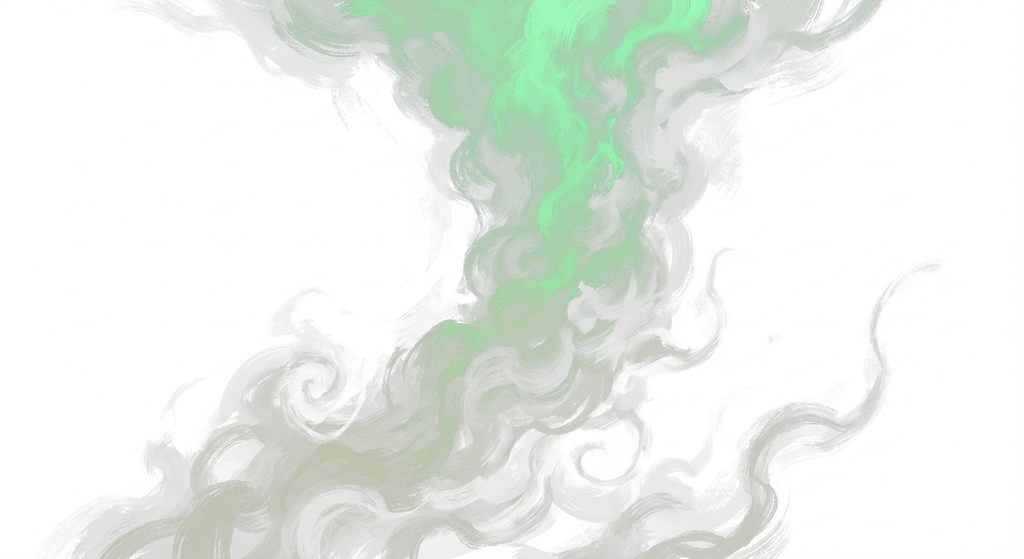
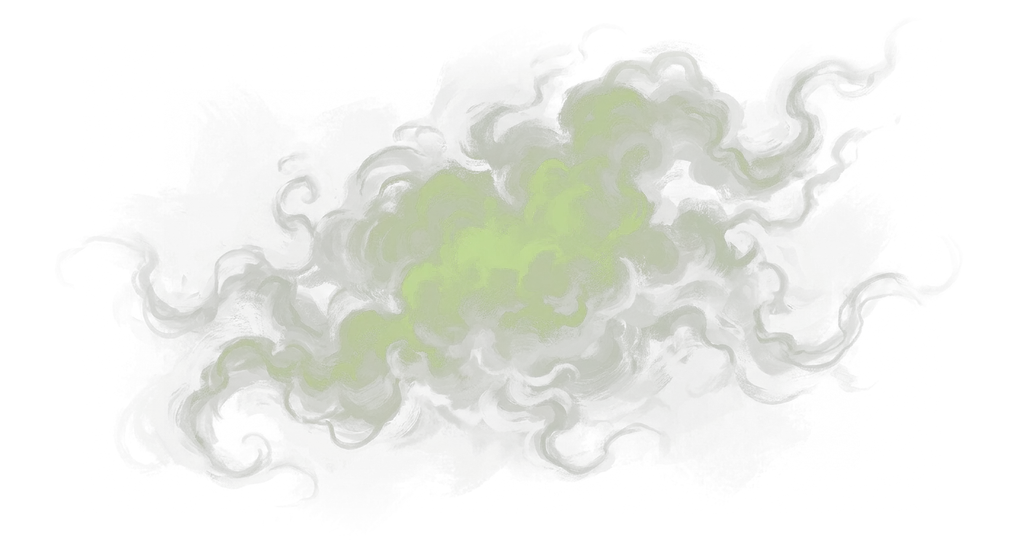
Gas blooms, it does not slide, and it never shows an edge
The owner on what shipped: the gas looked tacky the way it moved, and the plates had a flat line in
them. Both were the same mistake — a whole picture translated down the screen, with the picture
reaching its own frame, so the frame's straight edge travelled with it.

The plates are now one cloud each, sitting well inside the frame with black all round, and the tool
takes the outer sixth of every gas plate to nothing on top of that, so no straight edge exists to be
seen however the plate is moved.

The motion is a bloom: each layer arrives small and dense, opens out as it meets the air, drifts a
little, turns a few degrees and thins away. Four clocks, none of them the same length, and an ease-out
so it settles instead of sliding past.

diff --git a/assets/app.css b/assets/app.css
@@ -889,29 +889,29 @@ small.at-bonus{display:block}
   width:min(560px, 82vw); height:auto; margin:0;
   filter:drop-shadow(0 0 30px rgba(140,203,63,.3)) drop-shadow(0 10px 34px rgba(0,0,0,.9));
   animation:cheat-in .5s cubic-bezier(.2,.8,.2,1) both}
-.cheat-gas{position:absolute; left:50%; width:min(760px, 150vw); height:auto; mix-blend-mode:screen;
+.cheat-gas{position:absolute; left:50%; top:50%; width:min(920px, 170vw); height:auto; mix-blend-mode:screen;
   opacity:0; will-change:transform, opacity; pointer-events:none}
-/* an animation's own transform wins, so a mirrored layer carries the flip in its keyframes,
-   the way the crest's fog does (assets/theme.css wi-haze-m) */
-.cheat-gas.m{animation-name:cheat-pour-m}
-.g1{animation:cheat-pour 3.6s ease-out both}
-.g2{animation:cheat-pour 3.6s ease-out .25s both}
-.g3{animation:cheat-pour 3.6s ease-out .5s both}
-.g4{animation:cheat-pour 3.6s ease-out .75s both}
-@keyframes cheat-pour-m{
-  0%{transform:scaleX(-1) translate(50%, -60vh) scale(.6); opacity:0}
-  25%{opacity:.5}
-  70%{opacity:.34}
-  100%{transform:scaleX(-1) translate(50%, 18vh) scale(1.5); opacity:0}
-}
+/* Gas does not slide. It arrives small and dense, opens out as it meets the air, and thins away — so each
+   layer grows and drifts a little rather than travelling across the screen, each on its own clock, and the
+   two that are mirrored also turn the other way. Deceleration is the whole of it: the ease-out is why it
+   settles instead of sliding past. */
+.g1{animation:cheat-bloom 3.2s cubic-bezier(.16,.7,.3,1) both}
+.g2{animation:cheat-bloom-b 4.1s cubic-bezier(.16,.7,.3,1) .18s both}
+.g3{animation:cheat-bloom 3.6s cubic-bezier(.16,.7,.3,1) .45s both}
+.g4{animation:cheat-bloom-b 4.4s cubic-bezier(.16,.7,.3,1) .1s both}
 @keyframes cheat-in{from{opacity:0; transform:translateY(8px) scale(.97)} to{opacity:1; transform:none}}
 @keyframes cheat-out{to{opacity:0}}
-/* poured from above the words, spreading as it settles over them */
-@keyframes cheat-pour{
-  0%{transform:translate(-50%, -60vh) scale(.6); opacity:0}
-  25%{opacity:.5}
-  70%{opacity:.34}
-  100%{transform:translate(-50%, 18vh) scale(1.5); opacity:0}
+@keyframes cheat-bloom{
+  0%{transform:translate(-50%, -34%) scale(.38) rotate(-4deg); opacity:0}
+  18%{opacity:.62}
+  55%{opacity:.44}
+  100%{transform:translate(-50%, -54%) scale(1.5) rotate(5deg); opacity:0}
+}
+@keyframes cheat-bloom-b{
+  0%{transform:translate(-50%, -66%) scaleX(-1) scale(.44) rotate(3deg); opacity:0}
+  20%{opacity:.5}
+  60%{opacity:.34}
+  100%{transform:translate(-50%, -46%) scaleX(-1) scale(1.62) rotate(-6deg); opacity:0}
 }
 @media (prefers-reduced-motion: reduce){
   .cheat{animation-duration:.4s; animation-delay:1.7s}

diff --git a/assets/suggest.js b/assets/suggest.js
@@ -95,8 +95,8 @@ function cheat(){
   box.setAttribute('role', 'status');
   const still = matchMedia('(prefers-reduced-motion: reduce)').matches;
   box.innerHTML = (still ? '' :
-    [['1', ''], ['2', ''], ['3', ''], ['2', ' m']].map(([n, mirror], i) =>
-      '<img class="cheat-gas g' + (i + 1) + mirror + '" src="assets/brand/cheat-gas-' + n +
+    ['1', '2', '3', '2'].map((n, i) =>
+      '<img class="cheat-gas g' + (i + 1) + '" src="assets/brand/cheat-gas-' + n +
       '.webp" alt="" decoding="async">').join('')) +
     '<img class="cheat-said" src="assets/brand/cheat-words.webp" alt="Cheat Code Activated" decoding="async">';
   document.body.appendChild(box);

diff --git a/tools/art.py b/tools/art.py
@@ -6,7 +6,9 @@ and a plate nobody likes is a prompt to change rather than a file to hunt for.
 
 What comes back is a picture on a black field, and the black has to become nothing so the plate can be laid
 over anything. Two ways, because a gas and a badge are not the same thing:
-  glow  the plate's own brightness is its alpha, so a wisp fades out the way it is painted. Gas.
+  glow  the plate's own brightness is its alpha, so a wisp fades out the way it is painted, and the frame's
+        own edges are faded out with it. A plate that reaches its edge shows that edge as a straight line
+        the moment it moves, which is the one thing gas must never have. Gas.
   cut   only the black around the shape goes; the shape itself stays as solid as it was painted, so the dark
         metal of a letter is metal and not a hole. Lettering.
 Nothing is traced by hand afterwards.
@@ -51,19 +53,19 @@ BADGE = ('Dark fantasy game logo in the style of Path of Exile, drawn as one pie
 # never a finished thing on its own, which is why every one of them is loose and off-centre rather than posed.
 GLOW, CUT = 'glow', 'cut'
 PLATES = {
-    'cheat-gas-1': LOOK + ' A thick column of poisonous green smoke pouring straight down from the top of the '
-                          'frame, heaviest and brightest where it enters at the top, spreading and thinning as '
-                          'it falls, wisps curling outward at the bottom edges. Sickly toxic green, bright '
-                          'where it is dense, fading to nothing at the edges.',
-    'cheat-gas-2': LOOK + ' A wide rolling bank of poisonous green vapour spilling downward and outward, like '
-                          'gas poured over a surface and spreading across it, heavy in the middle, tendrils '
-                          'reaching left and right. Sickly toxic green, soft edges, fading to nothing.',
+    'cheat-gas-1': LOOK + ' One billowing cloud of poisonous green smoke floating in the middle of the frame, '
+                          'dense and bright at its heart, breaking into curling wisps at its outside. It sits '
+                          'well inside the frame with a wide margin of empty black all the way around it, and '
+                          'touches no edge. Sickly toxic green.',
+    'cheat-gas-2': LOOK + ' One low rolling cloud of poisonous green vapour, wider than it is tall, heavy in '
+                          'the middle and breaking into tendrils at either side. It sits well inside the frame '
+                          'with empty black all the way around it and touches no edge. Sickly toxic green.',
     'cheat-words': (CUT, BADGE + ' Two lines of capitals, centred, the first line reading exactly '
                     '"CHEAT CODE" and the second line reading exactly "ACTIVATED". Spelled exactly that way '
                     'and nothing else written anywhere.'),
-    'cheat-gas-3': LOOK + ' Thin ragged streamers of poisonous green gas falling, broken and uneven, wisps and '
-                          'tatters rather than a solid mass, some curling upward as they fall. Sickly toxic '
-                          'green, very soft, most of the frame empty black.',
+    'cheat-gas-3': LOOK + ' A few thin ragged wisps of poisonous green gas, torn and uneven, drifting apart, '
+                          'nothing solid. They sit in the middle of the frame with empty black all around '
+                          'them and touch no edge. Sickly toxic green, very soft.',
 }
 
 
@@ -112,11 +114,37 @@ def plate(raw, how=GLOW, width=1024):
         im = im.resize((width, round(im.height * width / im.width)), Image.LANCZOS)
     grey = im.convert('L')
     # cut: black is nothing, anything above a whisper is whole, with a short ramp between so no edge is a stair
+    alpha = grey.point(lambda v: 0 if v < 8 else min(255, (v - 8) * 12)) if how == CUT else grey
+    if how == GLOW:
+        alpha = feather(alpha)
     out = im.convert('RGBA')
-    out.putalpha(grey.point(lambda v: 0 if v < 8 else min(255, (v - 8) * 12)) if how == CUT else grey)
+    out.putalpha(alpha)
     buf = io.BytesIO()
     out.save(buf, 'WEBP', quality=82, method=6)
     return buf.getvalue()
+
+
+def feather(alpha, part=0.16):
+    """The frame's own edges taken to nothing. A cloud that reaches its edge shows a straight line the moment
+       it is moved, and nothing about gas is straight."""
+    from PIL import Image
+    w, h = alpha.size
+    dx, dy = max(1, round(w * part)), max(1, round(h * part))
+    ramp_w = Image.linear_gradient('L').resize((dx, 1)).rotate(0)
+    mask = Image.new('L', (w, h), 255)
+    px = mask.load()
+    for x in range(dx):
+        v = round(255 * (x / dx))
+        for y in range(h):
+            px[x, y] = min(px[x, y], v)
+            px[w - 1 - x, y] = min(px[w - 1 - x, y], v)
+    for y in range(dy):
+        v = round(255 * (y / dy))
+        for x in range(w):
+            px[x, y] = min(px[x, y], v)
+            px[x, h - 1 - y] = min(px[x, h - 1 - y], v)
+    from PIL import ImageChops
+    return ImageChops.multiply(alpha, mask)
 
 
 def make(name, over):
